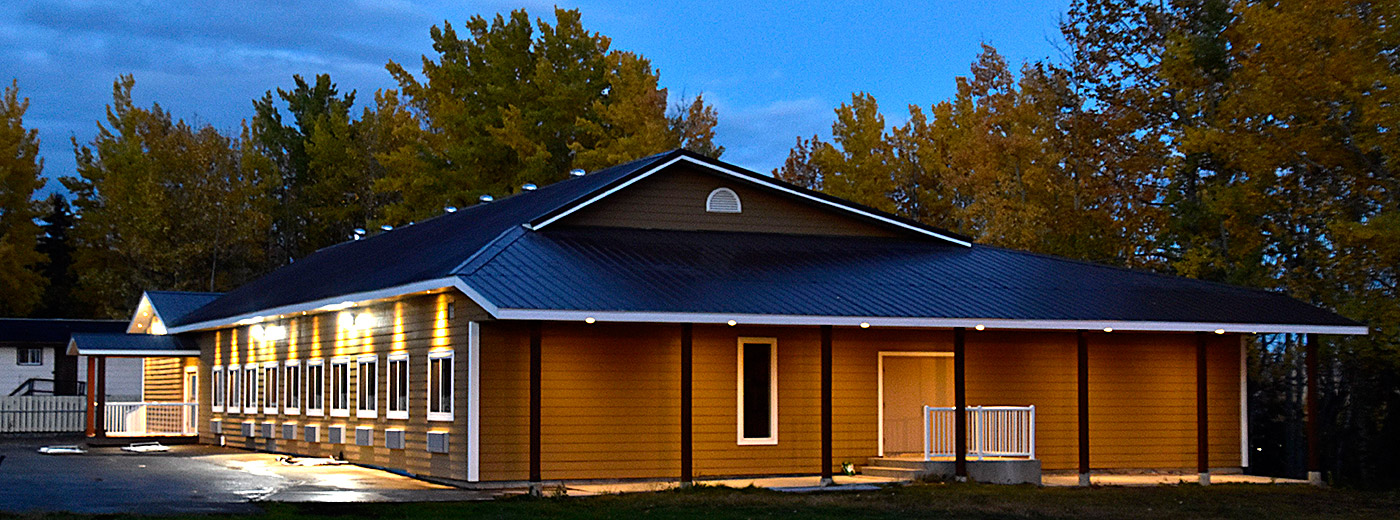
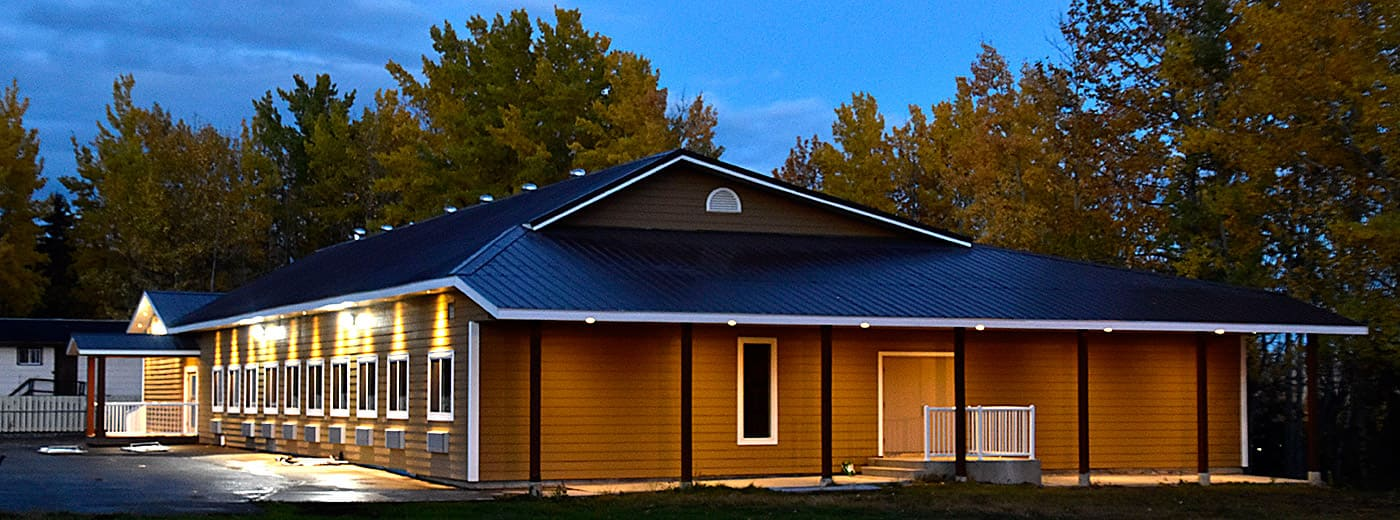
optimized pictures

diff --git a/components/home/hero-section.tsx b/components/home/hero-section.tsx
@@ -11,7 +11,7 @@ const SLIDES = [
   '/images/the-lion-inn-suites-surroundings-chetwynd.jpg',
   '/images/the-lion-inn-suites-kitchen-stove-chetwynd.jpg',
   '/images/the-lion-inn-suites-kitchen-facility-chetwynd.jpg',
-  '/images/the-lion-inn-suites-queen-room-chetwynd.jpg',
+  '/images/the-lion-inn-suites-hospitality-chetwynd.jpg',
   '/images/the-lion-inn-suites-double-queen-room-chetwynd.jpg',
 ]
 

diff --git a/app/reservations/page.tsx b/app/reservations/page.tsx
@@ -38,7 +38,7 @@ const slides = [
   '/images/the-lion-inn-suites-double-queen-room-chetwynd.jpg',
   '/images/the-lion-inn-suites-kitchen-stove-chetwynd.jpg',
   '/images/the-lion-inn-suites-kitchen-facility-chetwynd.jpg',
-  '/images/the-lion-inn-suites-queen-room-chetwynd.jpg',
+  '/images/the-lion-inn-suites-hospitality-chetwynd.jpg',
 ];
 const rooms = [
   {
